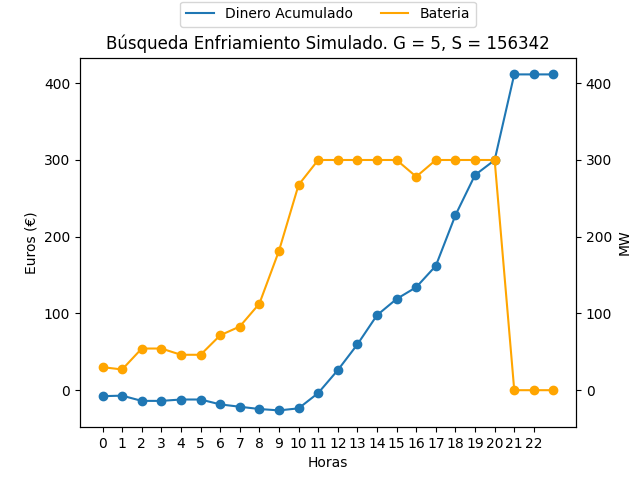
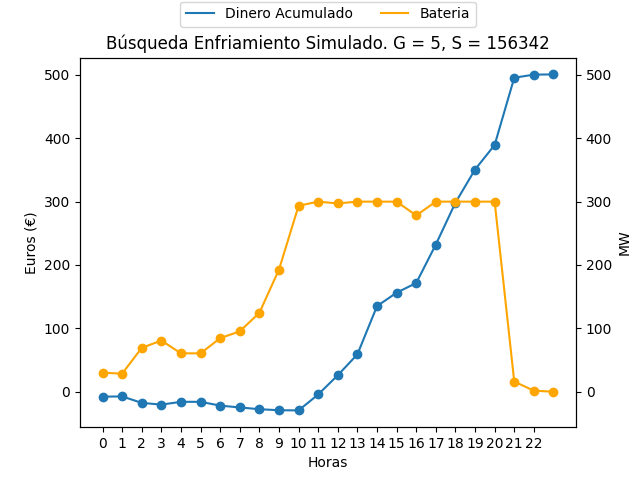
auto-commit:16/03/2023 a las 10:05:41,93

diff --git a/2º Cuatrimestre/[MByHB] Modelos Bioinspirados y Heurísticas de Búsquedas/Prácticas/Práctica 1. Búsquedas Locales/_7_Búsqueda_Tabú/busqueda_tabu.py b/2º Cuatrimestre/[MByHB] Modelos Bioinspirados y Heurísticas de Búsquedas/Prácticas/Práctica 1. Búsquedas Locales/_7_Búsqueda_Tabú/busqueda_tabu.py
@@ -42,9 +42,8 @@ de la solución actual.
 '''
 
 
-
 def GenerarVecino(solucion, pos):
-    granularidad = 10   # En este algoritmo utilizaremos granularidad 10 fija.
+    granularidad = 10  # En este algoritmo utilizaremos granularidad 10 fija.
     solucion_vecina = solucion.copy()
     accion = random.randint(0, 1)  # Elige una accion (decrementar o incrementar)
 
@@ -75,14 +74,13 @@ def InicializarMemoriaDeFrecuencias():
     return np.ones((24, 21))
 
 
-def IncrementarPosicion(memoria_frecuencias, posicion):
-    fila, columna = posicion
-    memoria_frecuencias[fila, posicion] += 1
-    return memoria_frecuencias
+def IncrementarPosicion(memoria_frecuencias, solucion):
+    mf = memoria_frecuencias.copy()
+    valores = [i for i in range(-100, 110, 10)]
+    for h in range(len(solucion)):
+        mf[h][valores.index(solucion[h])] += 1
 
-
-def RuletaInversa():
-    return
+    return mf
 
 
 '''
@@ -97,14 +95,22 @@ greedy
 '''
 
 
-def GreedyProbabilistico(semilla, cromosoma, matrizProbabilidades):
+def GreedyProbabilistico(semilla, matrizProbabilidades):
+
     random.seed(semilla)
+    # Calcular Inversas:
+    M_invertida = 1 / matrizProbabilidades
+    suma_total = sum(np.transpose(M_invertida)) # Vector con la suma por filas
+    diag_suma = np.diag(1/suma_total)   # Diagonalizamos el vector para poder multiplicarlo
+    matriz_normalizada = diag_suma.dot(M_invertida)
+    valores = [i for i in range(-100, 110, 10)]
     solucion_greedy = []
-    for hora in cromosoma:
+    for hora in range(24):
         numero = random.random()
         suma = 0
         for i in range(-100, 110, 10):
-            suma += matrizProbabilidades(hora, i)
+
+            suma += matriz_normalizada[hora, valores.index(i)]
             if numero < suma:
                 solucion_greedy.append(i)
                 break
@@ -123,10 +129,12 @@ def CriterioDeAspiracion(coste_actual, coste_mejor):
 
 
 def AddListaTabu(pos, lista_tabu, tenencia, indice):
-    if indice < tenencia:
-        lista_tabu.append(pos)
+    lista = lista_tabu.copy()
+    if len(lista) < tenencia:
+        lista.append(pos)
     else:
-        lista_tabu[indice % tenencia] = pos
+        lista[indice % tenencia] = pos
+    return lista
 
 
 '''
@@ -144,55 +152,87 @@ def BusquedaTabu(semilla, iteraciones_maximas, numero_vecinos):
     solucion_mejor = solucion_actual
     coste_mejor = base.funcion_evaluacion(solucion_mejor, isRandom)[0]
     M = InicializarMemoriaDeFrecuencias()
-    num_iteraciones = 0
+    num_iteraciones = 1
     '''
     Lista Tabú
     '''
     tenencia_tabu = 4
     lista_tabu = []
 
-    while(num_iteraciones < iteraciones_maximas):
-        '''
-        Estimar el número máximo de iteraciones en total. Se realizarán 4 reinicializaciones, es decir,
-        una cada Numtotal-iteraciones/4. El tamaño inicial de cada lista tabú será n=4, estos valores
-        cambiarán después de las reinicializaciones según se ha comentado.
-        
-        Variar el tamaño de la lista tabú, incrementándola o reduciéndola en un 50% según una decisión
-        aleatoria uniforme, empezando la lista desde vacío en cada reinicialización
-        '''
-        if num_iteraciones % round(iteraciones_maximas/4):
-            # Reiniciar lista tabú
-            rand = random.random()
-            if rand < 0.5:
-                tenencia_tabu -= tenencia_tabu*1/2
-            else:
-                tenencia_tabu += tenencia_tabu*1/2
-            lista_tabu = []
-
+    while num_iteraciones <= iteraciones_maximas:
         hora = -1
+        valor = -1
         # Generamos numero_vecinos
         for nv in range(numero_vecinos):
             hora = random.randint(0, 23)
+            valor = solucion_actual[hora]
             solucion_prima = GenerarVecino(solucion_actual, hora)
 
             # Si supera el criterio de aspiración
-            if CriterioDeAspiracion(base.funcion_evaluacion(solucion_prima, isRandom)[0], coste_mejor)\
-                    or (hora, solucion_prima[hora]) in lista_tabu:
+            if CriterioDeAspiracion(base.funcion_evaluacion(solucion_prima, isRandom)[0], coste_mejor) \
+                    or (hora, solucion_prima[hora]) not in lista_tabu:
                 # Evaluar S'
                 coste_vecino = base.funcion_evaluacion(solucion_prima, isRandom)[0]
 
                 if coste_vecino > coste_mejor:
                     coste_mejor = coste_vecino
                     solucion_mejor = solucion_prima
-
+        # END-FOR
         # Realizar el movimiento elegido
         solucion_actual = solucion_mejor
         coste_actual = coste_mejor
-        lista_tabu = AddListaTabu((hora, solucion_actual[hora]),lista_tabu, tenencia_tabu)
-        IncrementarPosicion(M, (hora, solucion_actual[hora]))
+
+        lista_tabu = AddListaTabu((hora, valor), lista_tabu, tenencia_tabu, num_iteraciones)
+        M = IncrementarPosicion(M, solucion_actual)
+
+        #print(M)
+        '''
+        Estimar el número máximo de iteraciones en total. Se realizarán 4 reinicializaciones, es decir,
+        una cada Numtotal-iteraciones/4. El tamaño inicial de cada lista tabú será n=4, estos valores
+        cambiarán después de las reinicializaciones según se ha comentado. 
+        Variar el tamaño de la lista tabú, incrementándola o reduciéndola en un 50% según una decisión
+        aleatoria uniforme, empezando la lista desde vacío en cada reinicialización
+        '''
+        if num_iteraciones % round(iteraciones_maximas / 4) == 0:
+            # Reiniciar lista tabú
+            rand = random.random()
+            if rand < 0.5:
+                tenencia_tabu -= tenencia_tabu * 0.5
+            else:
+                tenencia_tabu += tenencia_tabu * 0.5
+            tenencia_tabu = int(np.ceil(tenencia_tabu))
+            print(f"T: {tenencia_tabu}")
+            lista_tabu = []
+
+            '''
+            Selección de estrategias de reinicialización:
+             · Reinicialización construyendo una solución inicial aleatoria : 25%
+             · Memoria a Largo Plazo : 50%
+             · Reinicialización desde la mejor solución : 25%
+            '''
+            num = random.random()
+            if num < 0.25:
+                print("Reinicializacion Aleatoria")
+                # Reinicialización construyendo una solución inicial aleatoria : 25%
+                solucion_actual = base.generar_inicial(semilla, 24, 10)
+
+            elif 0.25 <= num < 0.5:
+                print("Reinicializacion Mejor Solucion")
+                # Reinicialización desde la mejor solución : 25%
+                solucion_actual = solucion_mejor
+            else:
+                # Memoria a Largo Plazo : 50%
+                solucion_actual = GreedyProbabilistico(semilla, M)
+                print("MLP")
 
 
+        num_iteraciones += 1
+    #END-WHILE
+
+    return solucion_mejor
 
 
-
-
+if __name__ == "__main__":
+    s = BusquedaTabu(123456, 1000, 40)
+    print(s)
+    print(base.funcion_evaluacion(s, isRandom))

diff --git a/2º Cuatrimestre/[MByHB] Modelos Bioinspirados y Heurísticas de Búsquedas/Prácticas/Práctica 1. Búsquedas Locales/_6_Búsqueda_Enfriamiento_Simulado/busqueda_ES.py b/2º Cuatrimestre/[MByHB] Modelos Bioinspirados y Heurísticas de Búsquedas/Prácticas/Práctica 1. Búsquedas Locales/_6_Búsqueda_Enfriamiento_Simulado/busqueda_ES.py
@@ -87,7 +87,7 @@ def enfriamiento_simulado(semilla, granularidad, num_vecinos_, mu_, phi_):
                 solucion_actual = solucion_candidata
                 dinero_acumulado = dinero_hora
                 bateria_acumulada = bateria_hora
-
+            else:
                 acepta += 1
 
             # Escogemos la mejor solucion
@@ -102,7 +102,7 @@ def enfriamiento_simulado(semilla, granularidad, num_vecinos_, mu_, phi_):
         t = t0 / (1 + k)  # Esquema de Enfriamiento: Esquema de Cauchy
         k += 1
         temperatura.append(t)
-    return dinero_mejor, dinero_acumulado, bateria_acumulada, num_evaluaciones, temperatura, solucion_actual, 1 - acepta/total
+    return dinero_mejor, dinero_acumulado, bateria_acumulada, num_evaluaciones, temperatura, solucion_mejor, acepta/total
 
 
 def experimentacion_parametros():
@@ -253,8 +253,12 @@ if __name__ == "__main__":
         experimentacion_parametros()
         graficas_enfriamiento_simulado(15, 0.2, 0.3)
     else:
-        experimentacion_parametros()
-        graficas_enfriamiento_simulado(15, 0.3, 0.2)
+        #experimentacion_parametros()
+        graficas_enfriamiento_simulado(20, 0.3, 0.3)
+        # dinero, _, _, _, _, s, _ = enfriamiento_simulado(123456, 1, 20, 0.3, 0.3)
+        # print(s)
+        # print(f"Dinero = {dinero}")
+        # print(f"F(s) = {base.funcion_evaluacion(s, isRandom)[0]}")
 
 
 
